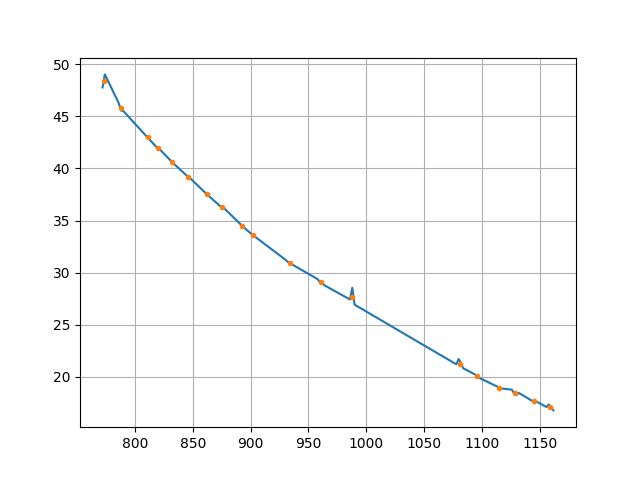
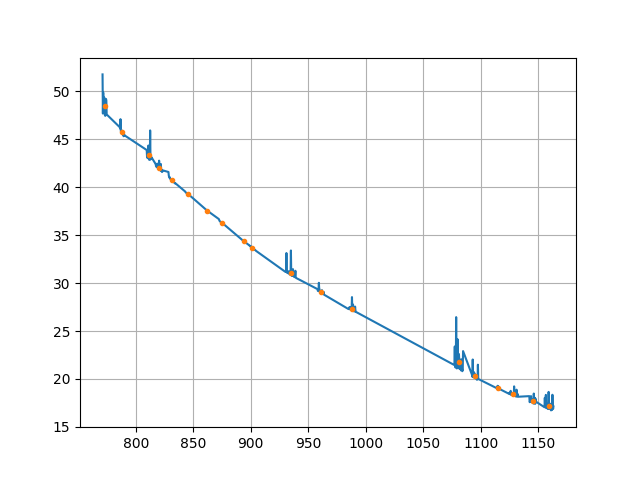
Backup

diff --git a/src/inp.py b/src/inp.py
@@ -137,7 +137,7 @@ OFFSET = 0.0
 '''
 Parameters for the first guess: tau_total, f_ice, reff_liq, reff_ice
 '''
-MCP = [0.2, 0.5, 5.0, 30.0]
+MCP = [1.66, 0.5, 5.0, 30.0]
 
 '''
 If this is set to true, then L-IWP searches for a file containing cloud height
